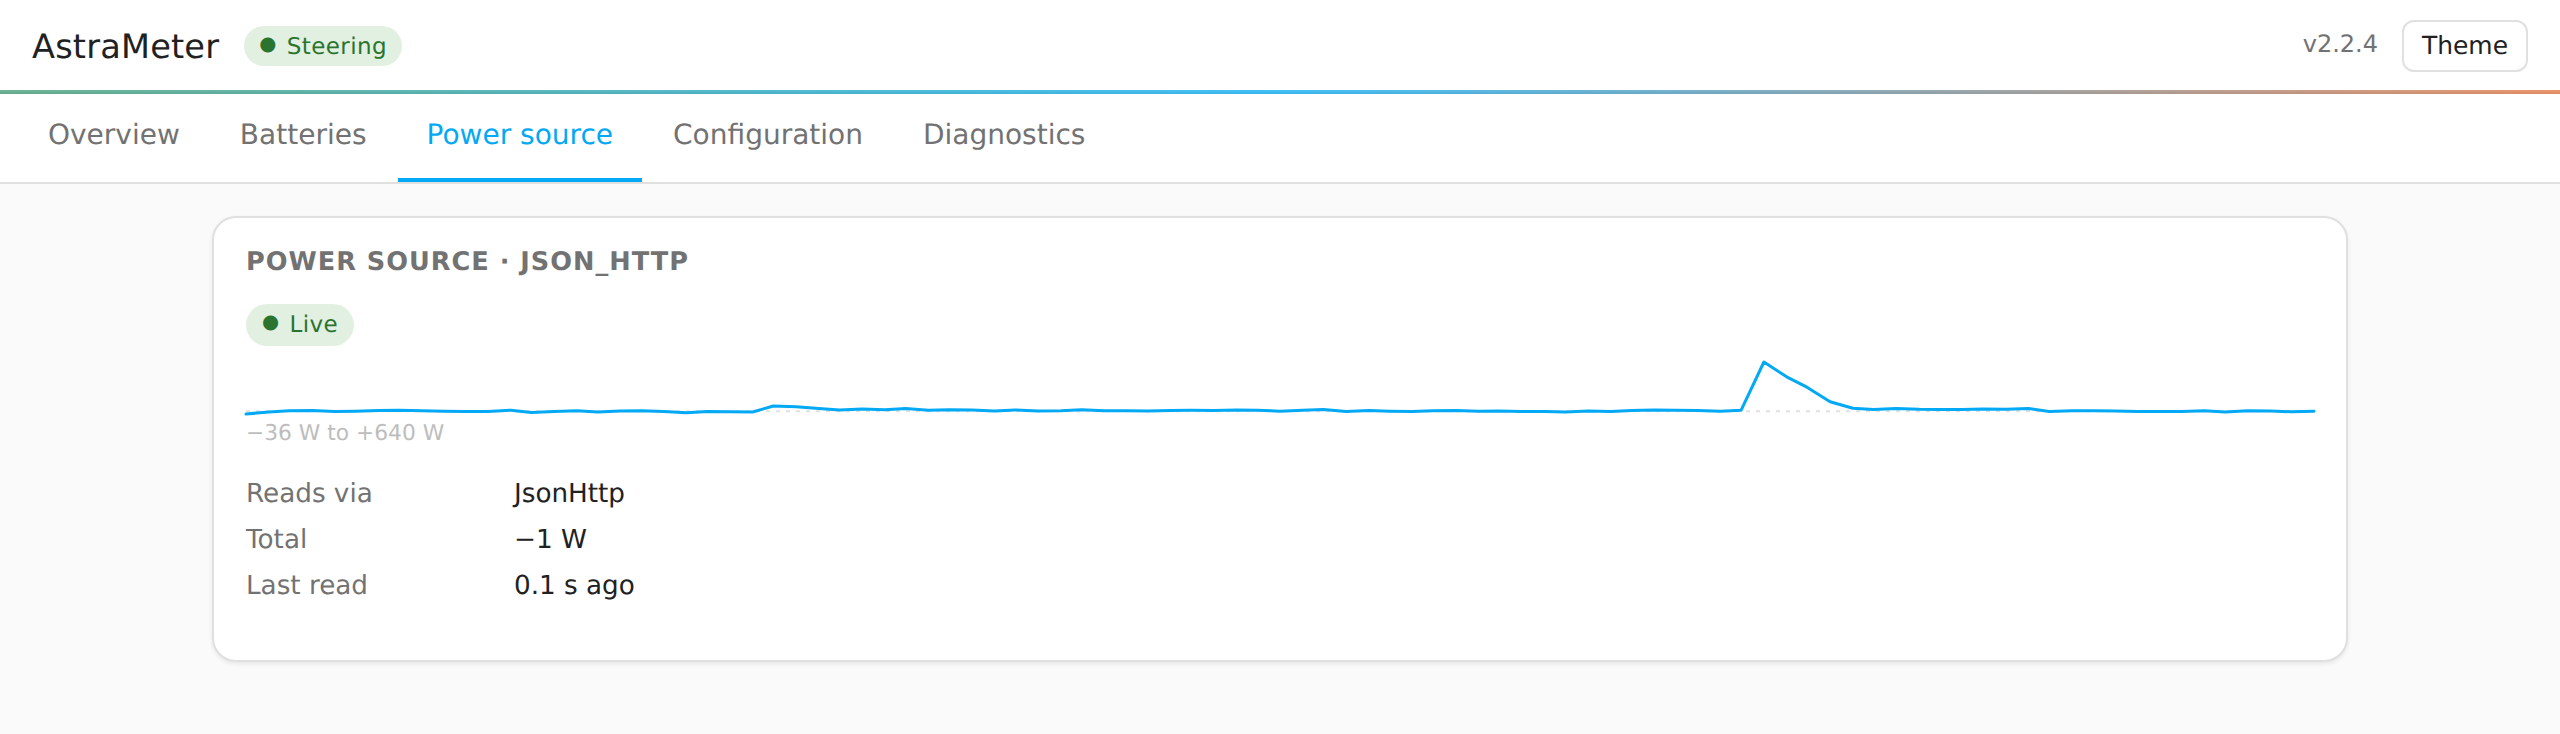
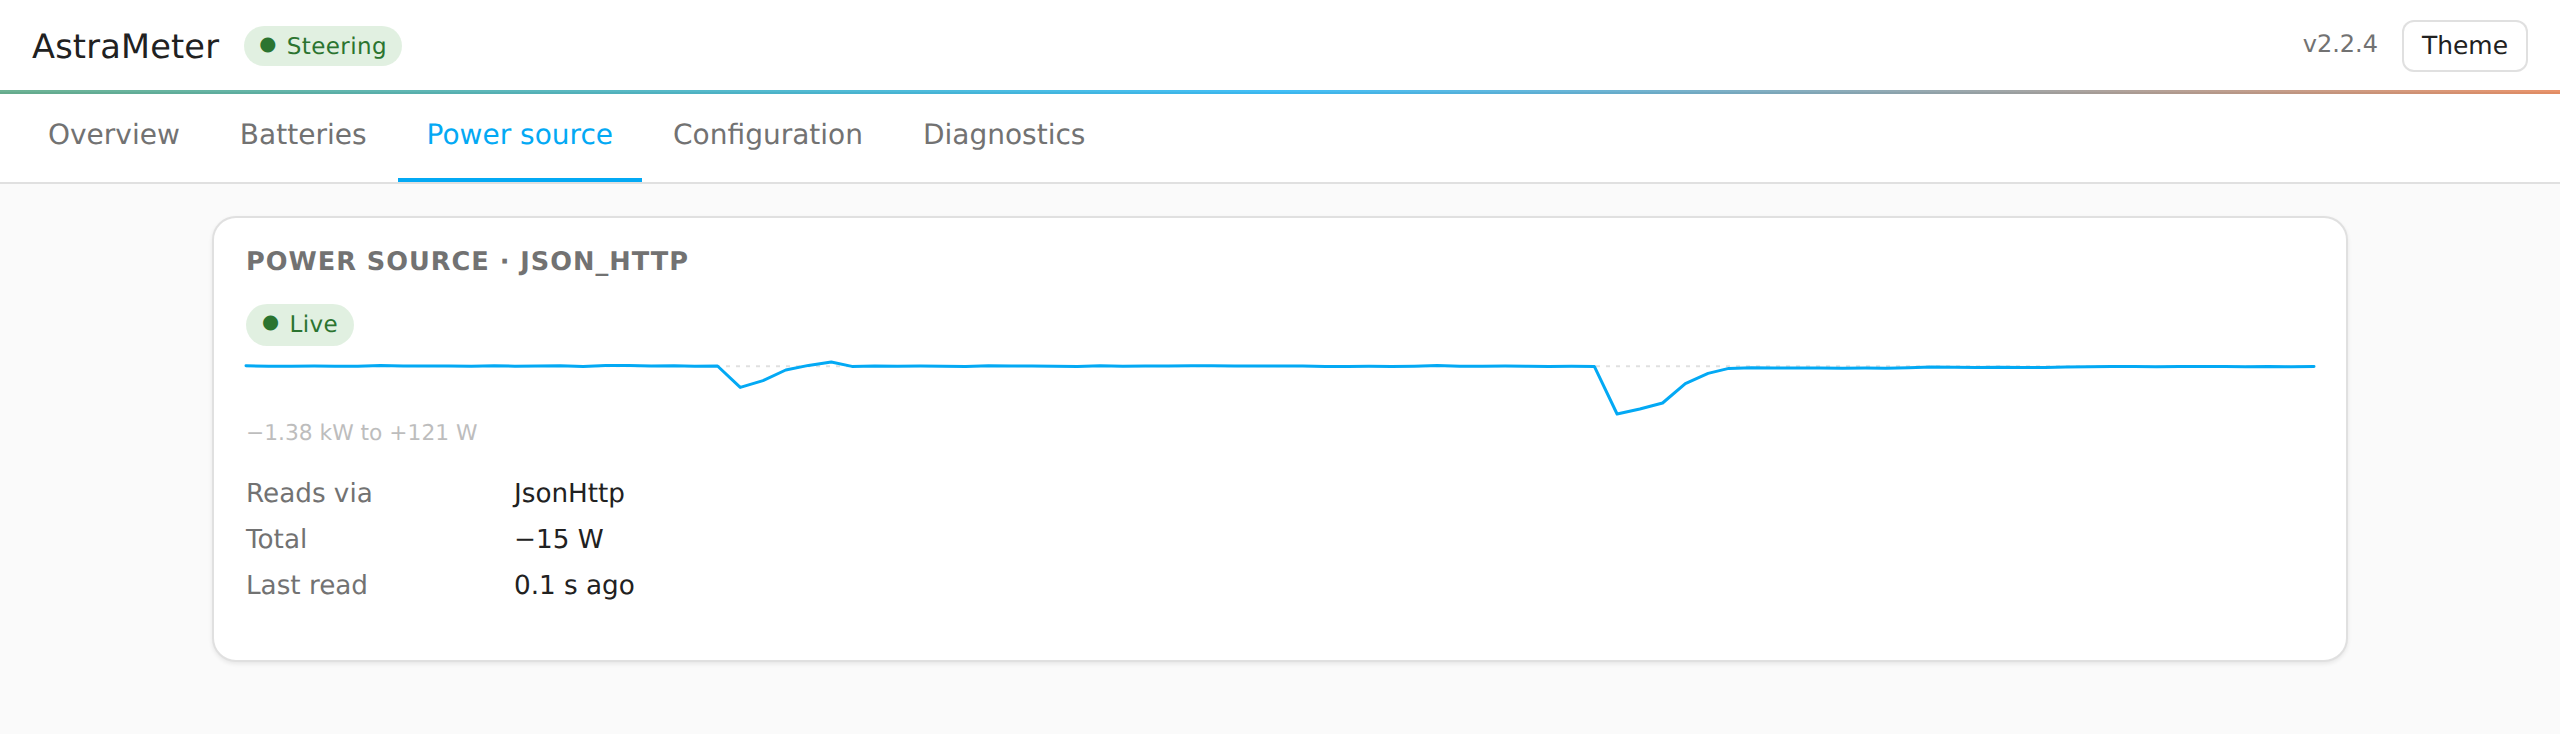
Require the fleet to be discharging when the shot is taken
The last run caught a sunny moment: grid at -3 W, gate satisfied, and all
three batteries charging at ~400 W. Perfectly real, but both the README
and docs/dashboard.md caption these images 'three batteries between them
supply what the house is drawing', so a charging shot lands under alt
text promising the opposite.

The gate now measures what each battery supplies rather than how hard it
is working in either direction, so the picture matches the claim by
construction instead of by which moment the run happened to land on.

Images regenerated to match.

Claude-Session: https://claude.ai/code/session_01CWw7pRCh73ZpbEMwc66TqA

diff --git a/web/tools/screenshots.ts b/web/tools/screenshots.ts
@@ -132,8 +132,9 @@ function parseArgs(argv: string[]): Options {
     warmupMs: 420_000,
     // What "a good moment" means, in watts: the grid genuinely at zero — the
     // balancer's own settle band is ±25 W — and every battery visibly the
-    // reason why. A loose gate here is not a small sin: it admits shots of
-    // AstraMeter mid-correction and presents them as AstraMeter working.
+    // reason why, each discharging at least this much into the house. A loose
+    // gate here is not a small sin: it admits shots of AstraMeter
+    // mid-correction and presents them as AstraMeter working.
     settleW: 30,
     workingW: 150,
     tabs: [...TABS],
@@ -270,6 +271,10 @@ function batteryWatts(snapshot: any): number[] {
  * Every battery, not the busiest: under a light load AstraMeter deliberately
  * concentrates on fewer of them, and a shot of one battery working beside two
  * parked at 0 W documents the efficiency rule instead of the balancing.
+ *
+ * And every battery *discharging*, because that is what the captions claim.
+ * A sunny moment with the fleet absorbing surplus is just as real, but it
+ * would sit under alt text promising the opposite.
  */
 interface Moment {
   ok: boolean;
@@ -281,8 +286,14 @@ interface Moment {
 async function settledNow(opts: Options): Promise<Moment> {
   const snapshot = await statusSnapshot();
   const grid = gridWatts(snapshot);
-  const batteries = batteryWatts(snapshot).map(Math.abs);
-  const quietest = batteries.length ? Math.min(...batteries) : 0;
+  // Negated, so this is what each battery is *supplying* to the house. The
+  // direction matters: the docs caption both images with "three batteries
+  // between them supply what the house is drawing", and a fleet soaking up
+  // solar is equally real but illustrates the opposite. Accepting either
+  // would put a charging shot under a discharging caption, which is the
+  // caption-fits-the-picture failure this gate exists to prevent.
+  const supplying = batteryWatts(snapshot).map((w) => -w);
+  const quietest = supplying.length ? Math.min(...supplying) : 0;
   const ok =
     grid != null && Math.abs(grid) <= opts.settleW && quietest >= opts.workingW;
   return { ok, grid, quietest };
@@ -301,7 +312,7 @@ async function waitForGoodMoment(opts: Options, label: string): Promise<void> {
       // belongs in SHOWCASE — not in a caption written around a bad shot.
       throw new Error(
         `${label}: no settled moment within 90 s ` +
-          `(grid ${grid?.toFixed(0) ?? "?"} W, quietest battery ${quietest.toFixed(0)} W)`,
+          `(grid ${grid?.toFixed(0) ?? "?"} W, quietest battery supplying ${quietest.toFixed(0)} W)`,
       );
     }
     await new Promise((r) => setTimeout(r, 1000));
@@ -404,7 +415,7 @@ async function captureSettled(page: Page, opts: Options, tab: Tab): Promise<void
         if (attempt >= 5) {
           throw new Error(
             `${tab}: could not hold a settled moment across the freeze ` +
-              `(grid ${grid?.toFixed(0) ?? "?"} W, quietest battery ${quietest.toFixed(0)} W)`,
+              `(grid ${grid?.toFixed(0) ?? "?"} W, quietest battery supplying ${quietest.toFixed(0)} W)`,
           );
         }
         log(`${tab}: house moved while freezing, waiting for another moment`);
